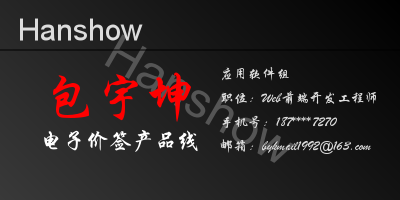
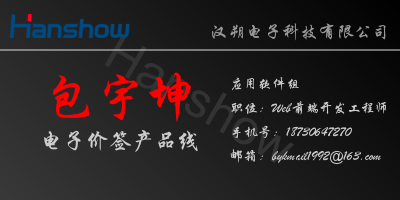
新增图像二值化、图像抖动等api

diff --git a/src/util/filter.ts b/src/util/filter.ts
@@ -1,0 +1,161 @@
+import { Canvas, Image, createCanvas } from 'canvas'
+
+interface Color {
+  r: number;
+  g: number;
+  b: number;
+}
+
+// 默认调色板
+const defaultPalette = [
+  { r: 0, g: 0, b: 0 },
+  { r: 255, g: 255, b: 255 },
+]
+
+/**
+ * 二值化
+ * @param imageData 像素信息
+ * @param colors 颜色列表
+ */
+export function binary (image: ImageData | Canvas | Image, colors?: string[], options?: { width: number, height: number }): ImageData {
+  const imageData =  image instanceof ImageData ? image : getImageData(image, options)
+  const palette = colors?.length > 0 ? initPalette(colors) : defaultPalette;
+  const data = imageData.data;
+  const len = imageData.data.length;
+
+  for (let i = 0; i < len; i += 4) {
+    const { r, g, b } = getClosestColor({
+      r: data[i],
+      g: data[i + 1],
+      b: data[i + 2]
+    }, palette)
+
+    data[i] = r;
+    data[i + 1] = g;
+    data[i + 2] = b;
+  }
+
+  return imageData;
+}
+
+/**
+ * 图像抖动
+ * @param imageData 像素信息
+ * @param colors 颜色列表
+ */
+export function dithering (image: ImageData | Canvas | Image, colors: string[], options?: { width: number, height: number }): ImageData {
+  const imageData =  image instanceof ImageData ? image : getImageData(image, options)
+  const palette = colors?.length > 0 ? initPalette(colors) : defaultPalette;
+  const data = imageData.data;
+  const len = imageData.data.length;
+  const width = imageData.width;
+  const height = imageData.height;
+
+  for (let i = 0; i < len; i += 4) {
+    const c = {
+      r: data[i],
+      g: data[i + 1],
+      b: data[i + 2]
+    }
+    const closest = getClosestColor(c, palette);
+    const { r, g, b } = closest;
+    const diff = sub(c, closest);
+
+    data[i] = r;
+    data[i + 1] = g;
+    data[i + 2] = b;
+    const row = i / 4 % width;
+    const col = i / 4 - row * width;
+    if (col < width - 1) update(data, i + 4, mul(diff, 7 / 16));
+    if (col > 1 && row < height - 1) update(data, i + width * 4 - 4, mul(diff, 3 / 16));
+    if (row < height - 1) update(data, i + width * 4, mul(diff, 5 / 16));
+    if (col < width - 1 && row < height - 1) update(data, i + width * 4 + 4, mul(diff, 1 / 16));
+  }
+  return imageData;
+}
+
+function getImageData (image: Canvas | Image, options?: { width: number, height: number }): ImageData {
+  const width = options?.width || image.width;
+  const height = options?.height || image.height;
+  const p = createCanvas(width, height).getContext('2d');
+  p.drawImage(image, 0, 0, width, height);
+
+  return p.getImageData(0, 0, width, height)
+}
+
+/**
+ * 获取颜色的rgb值
+ * @param colors 颜色列表
+ */
+function initPalette (colors: string[]): Color[] {
+  const len = colors.length
+  const cvs = createCanvas(len, 1);
+  const ctx = cvs.getContext('2d');
+
+  colors.forEach((c, i) => {
+    ctx.fillStyle = c;
+    ctx.fillRect(i, 0, 1, 1);
+  })
+
+  const data = ctx.getImageData(0, 0, len, 1).data
+  const palette = [];
+
+  for(let i = 0; i < len * 4; i += 4) {
+    palette.push({
+      r: data[i],
+      g: data[i + 1],
+      b: data[i + 2]
+    })
+  }
+
+  return palette;
+}
+
+/**
+ * 从调色板中获取最近邻色
+ * @param c 颜色
+ * @param palette 调色板
+ */
+function getClosestColor (c: Color, palette: Color[]): Color {
+  let closest: Color;
+  let delta = Infinity;
+  palette.forEach(_c => {
+    const dist = getColorDistance(c, _c);
+    if (dist < delta) {
+      delta = dist
+      closest = _c
+    } 
+  })
+  return closest;
+}
+
+/**
+ * 计算两个颜色的距离
+ * @param c1 颜色1
+ * @param c2 颜色2
+ */
+function getColorDistance (c1: Color, c2: Color): number {
+  return Math.abs(c1.r - c2.r) + Math.abs(c1.g - c2.g) + Math.abs(c1.b - c2.b);
+}
+
+function update (data: Uint8ClampedArray, i: number, c: Color): void {
+  data[i] += c.r;
+  data[i + 1] += c.g;
+  data[i + 2] += c.b;
+}
+
+function sub (c1: Color, c2: Color): Color {
+  return {
+    r: c1.r - c2.r,
+    g: c1.g - c2.g,
+    b: c1.b - c2.b
+  };
+}
+
+function mul (c: Color, n: number): Color {
+  return {
+    r: c.r * n,
+    g: c.g * n,
+    b: c.b * n
+  };
+}

diff --git a/test/render.js b/test/render.js
@@ -18,18 +18,20 @@ exports.render = function (p) {
     .move(200, 100)
     .rotate(Math.PI / 6)
     .set({
-      fillStyle: '#555',
+      fillStyle: '#333',
       font: '50px Arial',
     })
     .fillText('Hanshow', 0, 0)
     .restore()
     .set({
-      fillStyle: '#ddd',
-      font: '30px Arial',
+      fillStyle: '#999',
+      font: '18px xingkai',
+      textAlign: 'right',
+      textBaseline: 'bottom'
     })
-    .fillText('Hanshow', 80, 30)
+    .fillText('汉朔电子科技有限公司', 390, 42)
     
-    .set('strokeStyle', '#000')
+    .set('strokeStyle', '#ddd')
     .begin()
     .polyline([0, 50, 400, 50])
     .stroke()
@@ -38,14 +40,13 @@ exports.render = function (p) {
     .set({
       fillStyle: '#f00',
       font: '50px xingkai',
+      textAlign: 'center',
+      textBaseline: 'middle'
     })
     .fillText('包宇坤', 120, 100)
-    .set('fillStyle', '#fff')
+    .set('fillStyle', '#ccc')
     .text('电子价签产品线', 120, 130, { wrap: false, autoScale: true, width: 160, align: 'center' })
 
-    .set({
-      fillStyle: '#ddd',
-      font: '14px xingkai'
-    })
-    .text('应用软件组 职位：Web前端开发工程师 手机号：187****7270 邮箱：bykmail1992@163.com', 220, 110, { width: 160, lineHeight: 24, vAlign: 'middle' })
+    .set({ font: '14px xingkai' })
+    .text('应用软件组 职位：Web前端开发工程师 手机号：18730647270 邮箱：bykmail1992@163.com', 230, 120, { width: 160, lineHeight: 24, vAlign: 'middle' })
 }

diff --git a/test/demo.node.js b/test/demo.node.js
@@ -1,6 +1,6 @@
 const path = require('path');
 const fs = require('fs')
-const { registerFont } = require('canvas');
+const { registerFont, loadImage } = require('canvas');
 const { Painter } = require('../lib');
 const { render } = require('./render');
 
@@ -10,9 +10,13 @@ registerFont(fontPath, { family: 'xingkai' })
 
 render(p);
 
-const filePath = path.resolve(__dirname, '../public/test.png');
-const out = fs.createWriteStream(filePath);
-const stream = p.canvas.createPNGStream();
+loadImage(path.resolve(__dirname, '../public/logo.png')).then(img => {
+  p.img(img, 10, 14, 120, 24);
 
-stream.pipe(out);
-out.on('finish', () =>  console.log('The PNG file was created.'));
+  const filePath = path.resolve(__dirname, '../public/test.png');
+  const out = fs.createWriteStream(filePath);
+  const stream = p.canvas.createPNGStream();
+  
+  stream.pipe(out);
+  out.on('finish', () =>  console.log('The PNG file was created.'));
+})

diff --git a/src/index.ts b/src/index.ts
@@ -1,6 +1,7 @@
 import { CanvasRenderingContext2D } from "canvas";
 import createCanvas from "./createCanvas";
 
+export { binary, dithering } from './util/filter';
 interface TextSettings{
   width?: number;
   height?: number;
@@ -257,7 +258,8 @@ const chainMethodMap = [
   'fillText',
   'strokeText',
   'setLineDash',
-  'drawImage'
+  'drawImage',
+  'putImageData'
 ]
 
 const aliasMap = {
@@ -274,7 +276,8 @@ const aliasMap = {
   'setLineDash': ['lineDash', 'dash'],
   'createLinearGradient': ['linearGradient', 'lg'],
   'createRadialGradient': ['radialGradient', 'rg'],
-  'createPattern': 'pattern'
+  'createPattern': 'pattern',
+  'drawImage': ['image', 'img']
 }
 
 chainMethodMap.forEach(fn => {

diff --git a/test/demo.js b/test/demo.js
@@ -3,6 +3,14 @@ import { render } from './render'
 
 const p = new Painter(400, 200)
 
-document.body.onload = () => render(p)
+document.body.onload = () => {
+  render(p)
+
+  const img = new Image()
+  img.src = '../public/logo.png'
+  img.onload = function () {
+    p.img(img, 10, 14, 120, 24);
+  }
+}
 
 document.body.appendChild(p.canvas)
